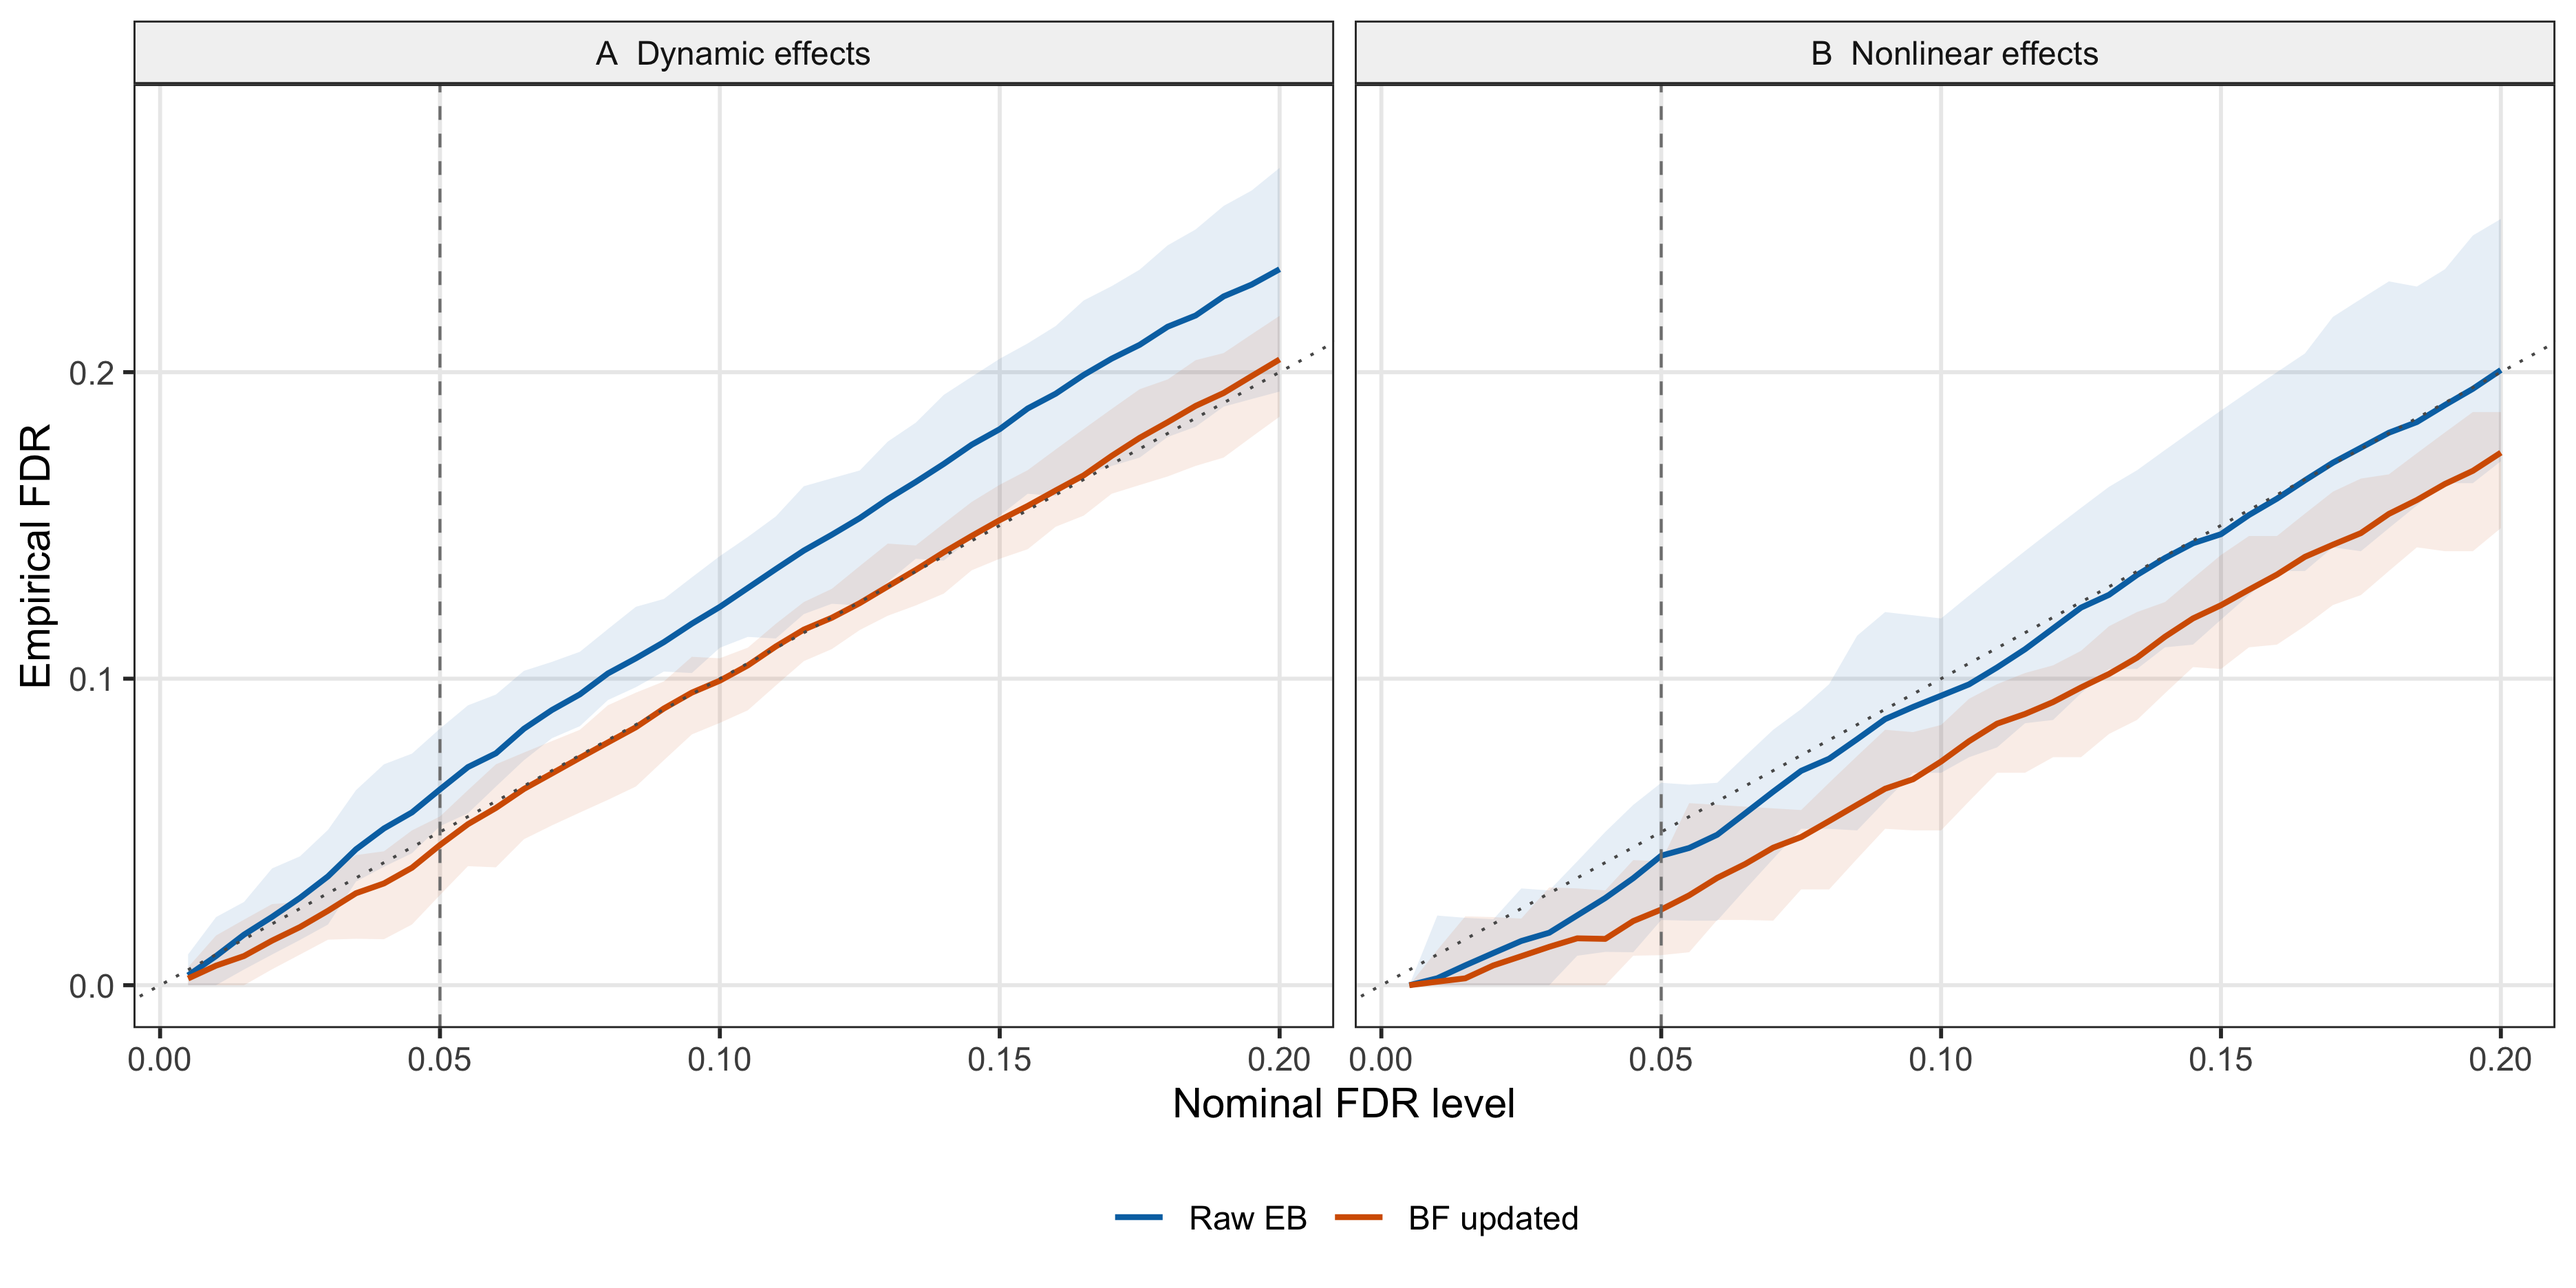
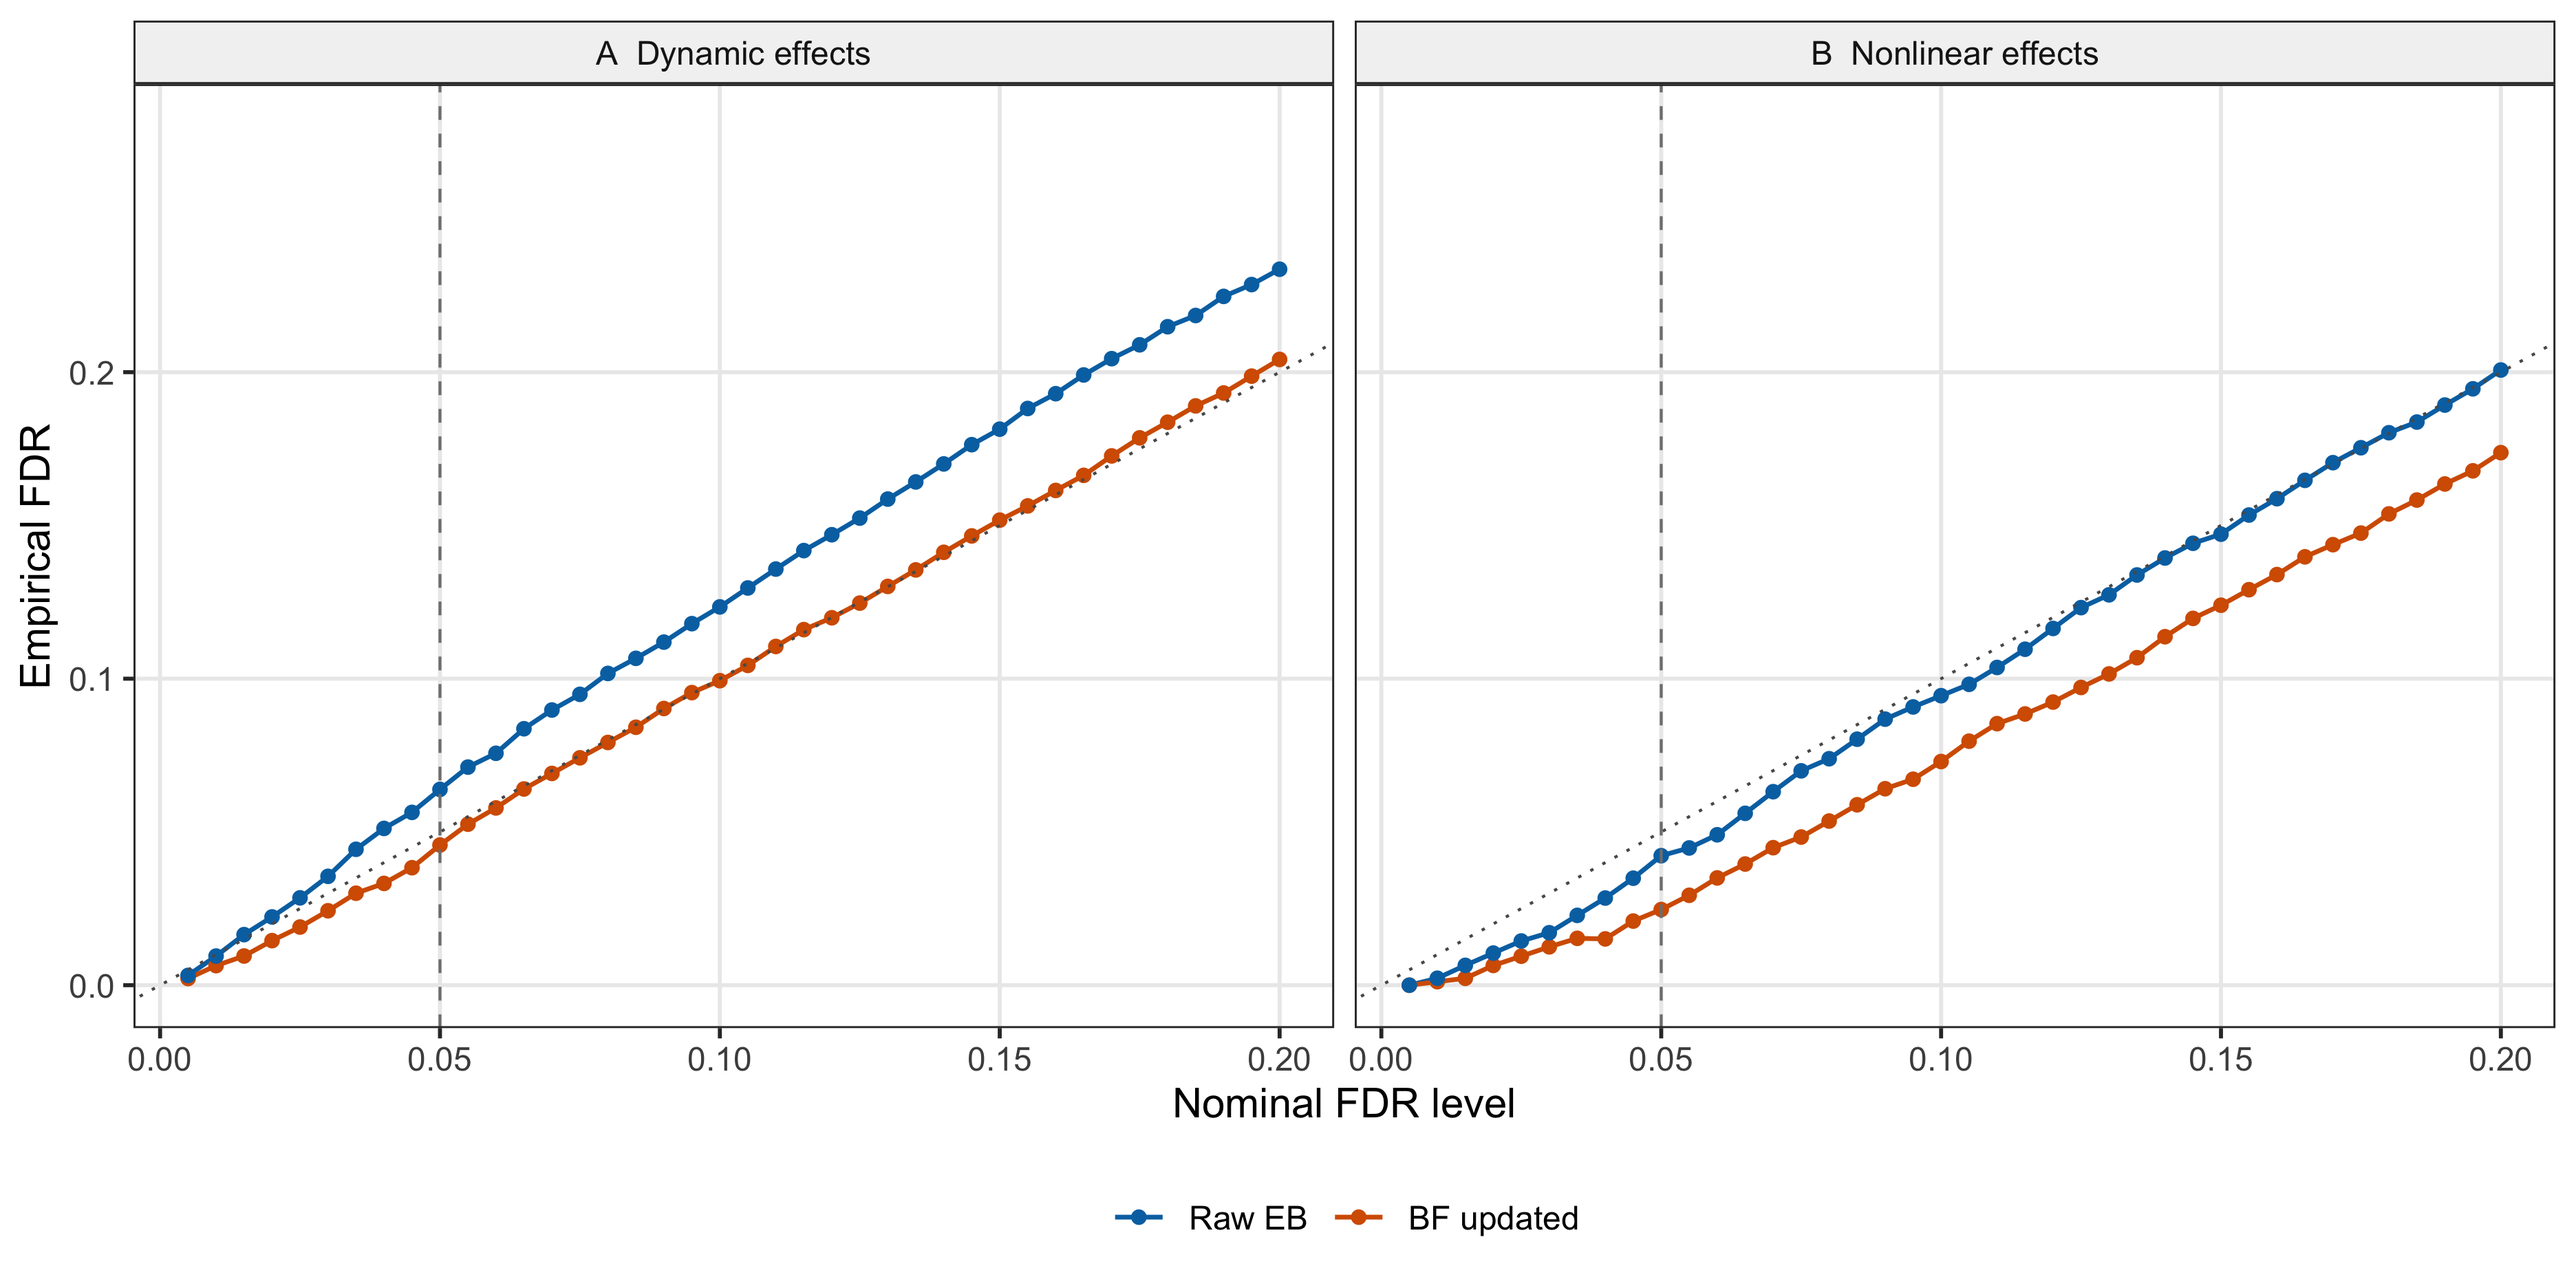
Publish mean point-and-line power and FDR figures

Changed region(s): [[0.5312, 0.1859, 0.9688, 0.7746], [0.0625, 0.1239, 0.5, 0.7746]]

diff --git a/docs/appendixB.html b/docs/appendixB.html
@@ -526,15 +526,15 @@ project makes it easier to run your code on other machines.</p>
 <div class="panel panel-default">
 <div class="panel-heading">
 <p class="panel-title">
-<a data-toggle="collapse" data-parent="#workflowr-checks" href="#strongRepositoryversionstrongahrefhttpsgithubcomAgueroZZfashrevisiontree9d3e63f0161b0a3c37e1f3a34c7e6e7aea19292etargetblank9d3e63fa">
+<a data-toggle="collapse" data-parent="#workflowr-checks" href="#strongRepositoryversionstrongahrefhttpsgithubcomAgueroZZfashrevisiontree6e7a5888aac91cfc31c8e8761bb01efcb5d9cd09targetblank6e7a588a">
 <span class="glyphicon glyphicon-ok text-success"
 aria-hidden="true"></span> <strong>Repository version:</strong>
-<a href="https://github.com/AgueroZZ/fash-revision/tree/9d3e63f0161b0a3c37e1f3a34c7e6e7aea19292e" target="_blank">9d3e63f</a>
+<a href="https://github.com/AgueroZZ/fash-revision/tree/6e7a5888aac91cfc31c8e8761bb01efcb5d9cd09" target="_blank">6e7a588</a>
 </a>
 </p>
 </div>
 <div
[2 lines of base64/hex data omitted]
 class="panel-collapse collapse">
 <div class="panel-body">
 <p>
@@ -544,7 +544,7 @@ reproducibility.
 </p>
 <p>
 The results in this page were generated with repository version
-<a href="https://github.com/AgueroZZ/fash-revision/tree/9d3e63f0161b0a3c37e1f3a34c7e6e7aea19292e" target="_blank">9d3e63f</a>.
+<a href="https://github.com/AgueroZZ/fash-revision/tree/6e7a5888aac91cfc31c8e8761bb01efcb5d9cd09" target="_blank">6e7a588</a>.
 See the <em>Past versions</em> tab to see a history of the changes made
 to the R Markdown and HTML files.
 </p>
@@ -565,6 +565,8 @@ Ignored files:
     Ignored:    Rplots.pdf
     Ignored:    analysis/.DS_Store
     Ignored:    analysis/.Rhistory
+    Ignored:    analysis/figure/
+    Ignored:    analysis/site_libs/
     Ignored:    code/.DS_Store
     Ignored:    code/.Rhistory
     Ignored:    code/revision_simulations/.DS_Store
@@ -643,6 +645,57 @@ Message
 </tr>
 </thead>
 <tbody>
+<tr>
+<td>
+Rmd
+</td>
+<td>
+<a href="https://github.com/AgueroZZ/fash-revision/blob/6e7a5888aac91cfc31c8e8761bb01efcb5d9cd09/analysis/appendixB.rmd" target="_blank">6e7a588</a>
+</td>
+<td>
+Ziang Zhang
+</td>
+<td>
+2026-09-18
+</td>
+<td>
+Preserve horizontal padding for power endpoints
+</td>
+</tr>
+<tr>
+<td>
+Rmd
+</td>
+<td>
+<a href="https://github.com/AgueroZZ/fash-revision/blob/012aff25a854f28d7eb3547a528e994ee239193c/analysis/appendixB.rmd" target="_blank">012aff2</a>
+</td>
+<td>
+Ziang Zhang
+</td>
+<td>
+2026-09-18
+</td>
+<td>
+Show mean power and FDR as connected points
+</td>
+</tr>
+<tr>
+<td>
+html
+</td>
+<td>
+<a href="https://rawcdn.githack.com/AgueroZZ/fash-revision/dea1967ac33c8391d3d836a338f802a90237f7be/docs/appendixB.html" target="_blank">dea1967</a>
+</td>
+<td>
+Ziang Zhang
+</td>
+<td>
+2026-09-18
+</td>
+<td>
+Publish updated ten-replicate simulation website
+</td>
+</tr>
 <tr>
 <td>
 Rmd
@@ -770,8 +823,8 @@ setting.</li>
 the simulated inputs across the original and denser shrinkage
 grids.</li>
 <li>Average null-weight estimates, power, and false-discovery
-proportions across repetitions. Shaded ranges show pointwise replicate
-minima and maxima.</li>
+proportions across repetitions. Figure 2 shows pointwise replicate
+ranges; Figures 3 and 4 show means as points connected by lines.</li>
 </ol>
 <p>All fits use the pinned <code>fashr</code> 0.1.43 build. The ten
 seeds are <code>seq(12345L, by = 10000L, length.out = 10L)</code>.</p>
@@ -848,6 +901,43 @@ nonlinear dynamic truth. Black points and gray bars show observed
 estimates and +/-2 standard errors; orange curves show the true effects.
 </p>
 </div>
+<p>
+<button type="button" class="btn btn-default btn-xs btn-workflowr btn-workflowr-fig" data-toggle="collapse" data-target="#fig-trajectories-1">
+Past versions of trajectories-1.png
+</button>
+</p>
+<div id="fig-trajectories-1" class="collapse">
+<div class="table-responsive">
+<table class="table table-condensed table-hover">
+<thead>
+<tr>
+<th>
+Version
+</th>
+<th>
+Author
+</th>
+<th>
+Date
+</th>
+</tr>
+</thead>
+<tbody>
+<tr>
+<td>
+<a href="https://github.com/AgueroZZ/fash-revision/blob/dea1967ac33c8391d3d836a338f802a90237f7be/docs/figure/appendixB.rmd/trajectories-1.png" target="_blank">dea1967</a>
+</td>
+<td>
+Ziang Zhang
+</td>
+<td>
+2026-09-18
+</td>
+</tr>
+</tbody>
+</table>
+</div>
+</div>
 </div>
 <div id="null-weight-estimation" class="section level2">
 <h2>Null-weight estimation</h2>
@@ -886,6 +976,43 @@ equality. Ribbons show pointwise replicate minima and maxima, including
 zero-boundary estimates.
 </p>
 </div>
+<p>
+<button type="button" class="btn btn-default btn-xs btn-workflowr btn-workflowr-fig" data-toggle="collapse" data-target="#fig-null-weights-1">
+Past versions of null-weights-1.png
+</button>
+</p>
+<div id="fig-null-weights-1" class="collapse">
+<div class="table-responsive">
+<table class="table table-condensed table-hover">
+<thead>
+<tr>
+<th>
+Version
+</th>
+<th>
+Author
+</th>
+<th>
+Date
+</th>
+</tr>
+</thead>
+<tbody>
+<tr>
+<td>
+<a href="https://github.com/AgueroZZ/fash-revision/blob/dea1967ac33c8391d3d836a338f802a90237f7be/docs/figure/appendixB.rmd/null-weights-1.png" target="_blank">dea1967</a>
+</td>
+<td>
+Ziang Zhang
+</td>
+<td>
+2026-09-18
+</td>
+</tr>
+</tbody>
+</table>
+</div>
+</div>
 </div>
 <div id="discovery-power-and-empirical-fdr" class="section level2">
 <h2>Discovery power and empirical FDR</h2>
@@ -900,30 +1027,68 @@ class="math inline">\(H_{1b}\)</span>, the plotted empirical FDR is</p>
 \]</span></p>
 <p>Power is the mean of <span class="math inline">\(|D_b(\alpha)\cap
 H_{1b}|/|H_{1b}|\)</span> across the same ten repetitions. Both rates
-include every repetition. Ribbons show pointwise minimum and maximum
-replicate rates; they are not confidence intervals.</p>
+include every repetition. Points connected by lines show the
+ten-repetition means.</p>
 <pre class="r"><code>power_curves &lt;- alpha_summary[, c(&quot;order&quot;, &quot;stage&quot;, &quot;alpha&quot;, &quot;mean_power&quot;,
   &quot;power_min&quot;, &quot;power_max&quot;, &quot;n_replicates&quot;)]
 stopifnot(all(power_curves$n_replicates == 10L))
 power_curves$stage &lt;- factor(power_curves$stage, c(&quot;Raw EB&quot;, &quot;BF updated&quot;))
 power_curves$panel &lt;- factor(power_curves$order, c(&quot;IWP1&quot;, &quot;IWP2&quot;),
   c(&quot;A  Dynamic effects&quot;, &quot;B  Nonlinear effects&quot;))
-ggplot(power_curves, aes(alpha, mean_power, color = stage, fill = stage)) +
-  geom_ribbon(aes(ymin = power_min, ymax = power_max), alpha = 0.10,
-    color = NA, show.legend = FALSE) + geom_line(linewidth = 0.8) +
+ggplot(power_curves, aes(alpha, mean_power, color = stage)) +
+  geom_line(linewidth = 0.65) + geom_point(size = 1.4) +
   geom_vline(xintercept = 0.05, color = &quot;grey50&quot;, linetype = &quot;dashed&quot;, linewidth = 0.4) +
   facet_wrap(~panel, nrow = 1) +
   scale_color_manual(values = c(&quot;Raw EB&quot; = &quot;#0072B2&quot;, &quot;BF updated&quot; = &quot;#D55E00&quot;)) +
-  scale_fill_manual(values = c(&quot;Raw EB&quot; = &quot;#0072B2&quot;, &quot;BF updated&quot; = &quot;#D55E00&quot;)) +
-  coord_cartesian(ylim = c(0, 1)) +
+  scale_y_continuous(breaks = seq(0.75, 0.90, by = 0.05),
+    expand = expansion(mult = 0)) +
+  coord_cartesian(ylim = c(0.75, 0.90)) +
   labs(x = &quot;Nominal FDR level&quot;, y = &quot;Mean power&quot;, color = NULL, fill = NULL) + c1_plot_theme()</code></pre>
 <div class="figure" style="text-align: center">
-<img src="figure/appendixB.rmd/power-1.png" alt="Figure 3. Mean discovery power over ten repetitions (J = 1,200). Panels A and B show dynamic and nonlinear testing. Ribbons show pointwise replicate minima and maxima. The vertical line marks nominal FDR 0.05." width="1872" />
+<img src="figure/appendixB.rmd/power-1.png" alt="Figure 3. Mean discovery power over ten repetitions (J = 1,200). Panels A and B show dynamic and nonlinear testing. Points connected by lines show ten-repetition mean power. The vertical line marks nominal FDR 0.05." width="1872" />
 <p class="caption">
 Figure 3. Mean discovery power over ten repetitions (J = 1,200). Panels
-A and B show dynamic and nonlinear testing. Ribbons show pointwise
-replicate minima and maxima. The vertical line marks nominal FDR 0.05.
+A and B show dynamic and nonlinear testing. Points connected by lines
+show ten-repetition mean power. The vertical line marks nominal FDR
+0.05.
 </p>
+</div>
+<p>
+<button type="button" class="btn btn-default btn-xs btn-workflowr btn-workflowr-fig" data-toggle="collapse" data-target="#fig-power-1">
+Past versions of power-1.png
+</button>
+</p>
+<div id="fig-power-1" class="collapse">
+<div class="table-responsive">
+<table class="table table-condensed table-hover">
+<thead>
+<tr>
+<th>
+Version
+</th>
+<th>
+Author
+</th>
+<th>
+Date
+</th>
+</tr>
+</thead>
+<tbody>
+<tr>
+<td>
+<a href="https://github.com/AgueroZZ/fash-revision/blob/dea1967ac33c8391d3d836a338f802a90237f7be/docs/figure/appendixB.rmd/power-1.png" target="_blank">dea1967</a>
+</td>
+<td>
+Ziang Zhang
+</td>
+<td>
+2026-09-18
+</td>
+</tr>
+</tbody>
+</table>
+</div>
 </div>
 <pre class="r"><code>fdr_curves &lt;- alpha_summary[, c(&quot;order&quot;, &quot;stage&quot;, &quot;alpha&quot;, &quot;mean_empirical_fdr&quot;,
   &quot;empirical_fdr_min&quot;, &quot;empirical_fdr_max&quot;, &quot;n_replicates&quot;)]
@@ -931,25 +1096,59 @@ stopifnot(all(fdr_curves$n_replicates == 10L))
 fdr_curves$stage &lt;- factor(fdr_curves$stage, c(&quot;Raw EB&quot;, &quot;BF updated&quot;))
 fdr_curves$panel &lt;- factor(fdr_curves$order, c(&quot;IWP1&quot;, &quot;IWP2&quot;),
   c(&quot;A  Dynamic effects&quot;, &quot;B  Nonlinear effects&quot;))
-ggplot(fdr_curves, aes(alpha, mean_empirical_fdr, color = stage, fill = stage)) +
-  geom_ribbon(aes(ymin = empirical_fdr_min, ymax = empirical_fdr_max), alpha = 0.10,
-    color = NA, show.legend = FALSE) + geom_line(linewidth = 0.8) +
+ggplot(fdr_curves, aes(alpha, mean_empirical_fdr, color = stage)) +
+  geom_line(linewidth = 0.65) + geom_point(size = 1.4) +
   geom_abline(slope = 1, intercept = 0, color = &quot;grey35&quot;, linetype = &quot;dotted&quot;, linewidth = 0.4) +
   geom_vline(xintercept = 0.05, color = &quot;grey50&quot;, linetype = &quot;dashed&quot;, linewidth = 0.4) +
   facet_wrap(~panel, nrow = 1) +
   scale_color_manual(values = c(&quot;Raw EB&quot; = &quot;#0072B2&quot;, &quot;BF updated&quot; = &quot;#D55E00&quot;)) +
-  scale_fill_manual(values = c(&quot;Raw EB&quot; = &quot;#0072B2&quot;, &quot;BF updated&quot; = &quot;#D55E00&quot;)) +
   coord_cartesian(ylim = c(0, max(0.2, 1.05 * fdr_curves$empirical_fdr_max))) +
   labs(x = &quot;Nominal FDR level&quot;, y = &quot;Empirical FDR&quot;, color = NULL, fill = NULL) + c1_plot_theme()</code></pre>
 <div class="figure" style="text-align: center">
-<img src="figure/appendixB.rmd/empirical-fdr-1.png" alt="Figure 4. Empirical FDR over the same ten repetitions. Panels A and B show dynamic and nonlinear testing. Curves average replicate false-discovery proportions; ribbons show pointwise replicate minima and maxima. The diagonal marks nominal calibration and the vertical line nominal FDR 0.05." width="1872" />
+<img src="figure/appendixB.rmd/empirical-fdr-1.png" alt="Figure 4. Empirical FDR over the same ten repetitions. Panels A and B show dynamic and nonlinear testing. Points connected by lines show the mean of replicate false-discovery proportions. The diagonal marks nominal calibration and the vertical line nominal FDR 0.05." width="1872" />
 <p class="caption">
 Figure 4. Empirical FDR over the same ten repetitions. Panels A and B
-show dynamic and nonlinear testing. Curves average replicate
-false-discovery proportions; ribbons show pointwise replicate minima and
-maxima. The diagonal marks nominal calibration and the vertical line
-nominal FDR 0.05.
+show dynamic and nonlinear testing. Points connected by lines show the
+mean of replicate false-discovery proportions. The diagonal marks
+nominal calibration and the vertical line nominal FDR 0.05.
 </p>
+</div>
+<p>
+<button type="button" class="btn btn-default btn-xs btn-workflowr btn-workflowr-fig" data-toggle="collapse" data-target="#fig-empirical-fdr-1">
+Past versions of empirical-fdr-1.png
+</button>
+</p>
+<div id="fig-empirical-fdr-1" class="collapse">
+<div class="table-responsive">
+<table class="table table-condensed table-hover">
+<thead>
+<tr>
+<th>
+Version
+</th>
+<th>
+Author
+</th>
+<th>
+Date
+</th>
+</tr>
+</thead>
+<tbody>
+<tr>
+<td>
+<a href="https://github.com/AgueroZZ/fash-revision/blob/dea1967ac33c8391d3d836a338f802a90237f7be/docs/figure/appendixB.rmd/empirical-fdr-1.png" target="_blank">dea1967</a>
+</td>
+<td>
+Ziang Zhang
+</td>
+<td>
+2026-09-18
+</td>
+</tr>
+</tbody>
+</table>
+</div>
 </div>
 <p>At nominal FDR 0.05, BF adjustment changes empirical FDR from 0.064
 to 0.046 for dynamic testing, and from 0.042 to 0.025 for nonlinear
@@ -1087,6 +1286,43 @@ bottom: IWP2 nonlinear testing. Black points and bars show estimates and
 +/-2 standard errors. Red curves and bands show posterior means and
 pointwise 95% credible intervals; blue dashed curves show truth.
 </p>
+</div>
+<p>
+<button type="button" class="btn btn-default btn-xs btn-workflowr btn-workflowr-fig" data-toggle="collapse" data-target="#fig-posterior-examples-1">
+Past versions of posterior-examples-1.png
+</button>
+</p>
+<div id="fig-posterior-examples-1" class="collapse">
+<div class="table-responsive">
+<table class="table table-condensed table-hover">
+<thead>
+<tr>
+<th>
+Version
+</th>
+<th>
+Author
+</th>
+<th>
+Date
+</th>
+</tr>
+</thead>
+<tbody>
+<tr>
+<td>
+<a href="https://github.com/AgueroZZ/fash-revision/blob/dea1967ac33c8391d3d836a338f802a90237f7be/docs/figure/appendixB.rmd/posterior-examples-1.png" target="_blank">dea1967</a>
+</td>
+<td>
+Ziang Zhang
+</td>
+<td>
+2026-09-18
+</td>
+</tr>
+</tbody>
+</table>
+</div>
 </div>
 </div>
 <div id="reproducibility" class="section level2">
